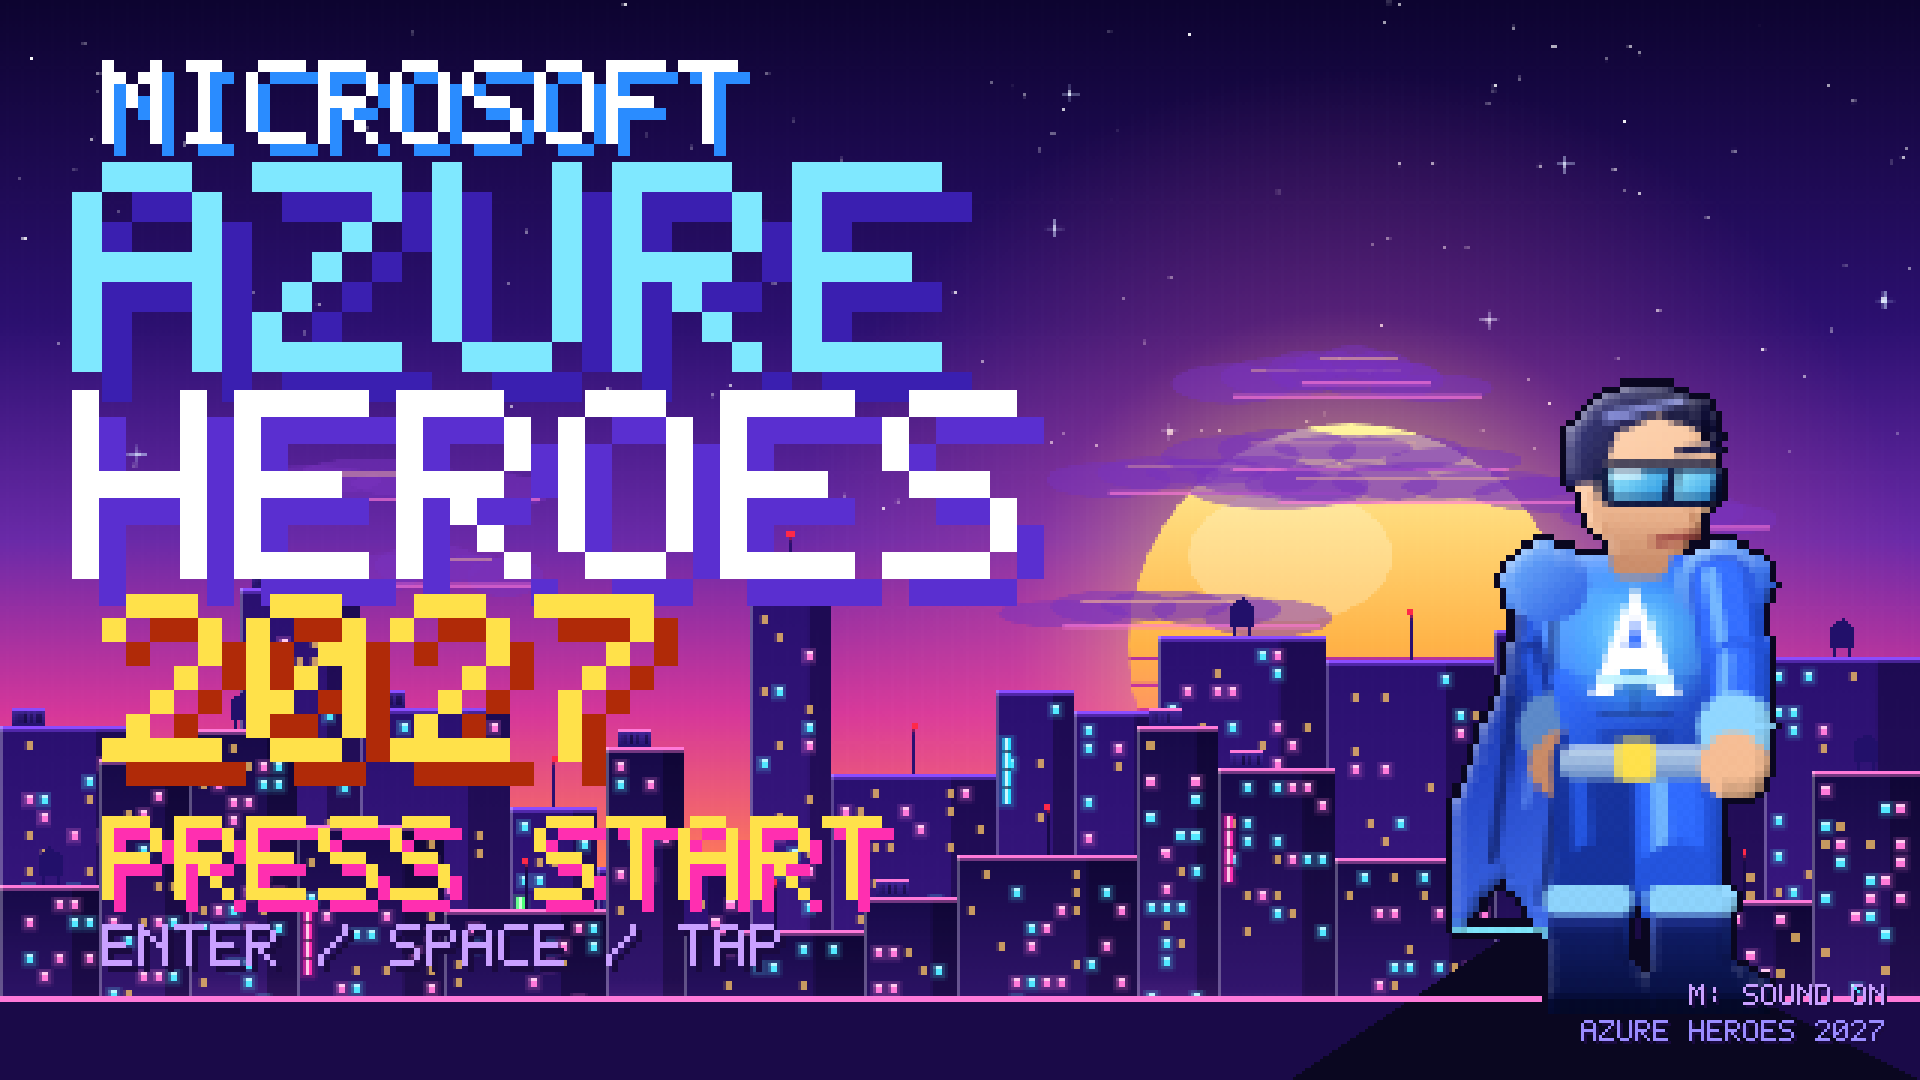
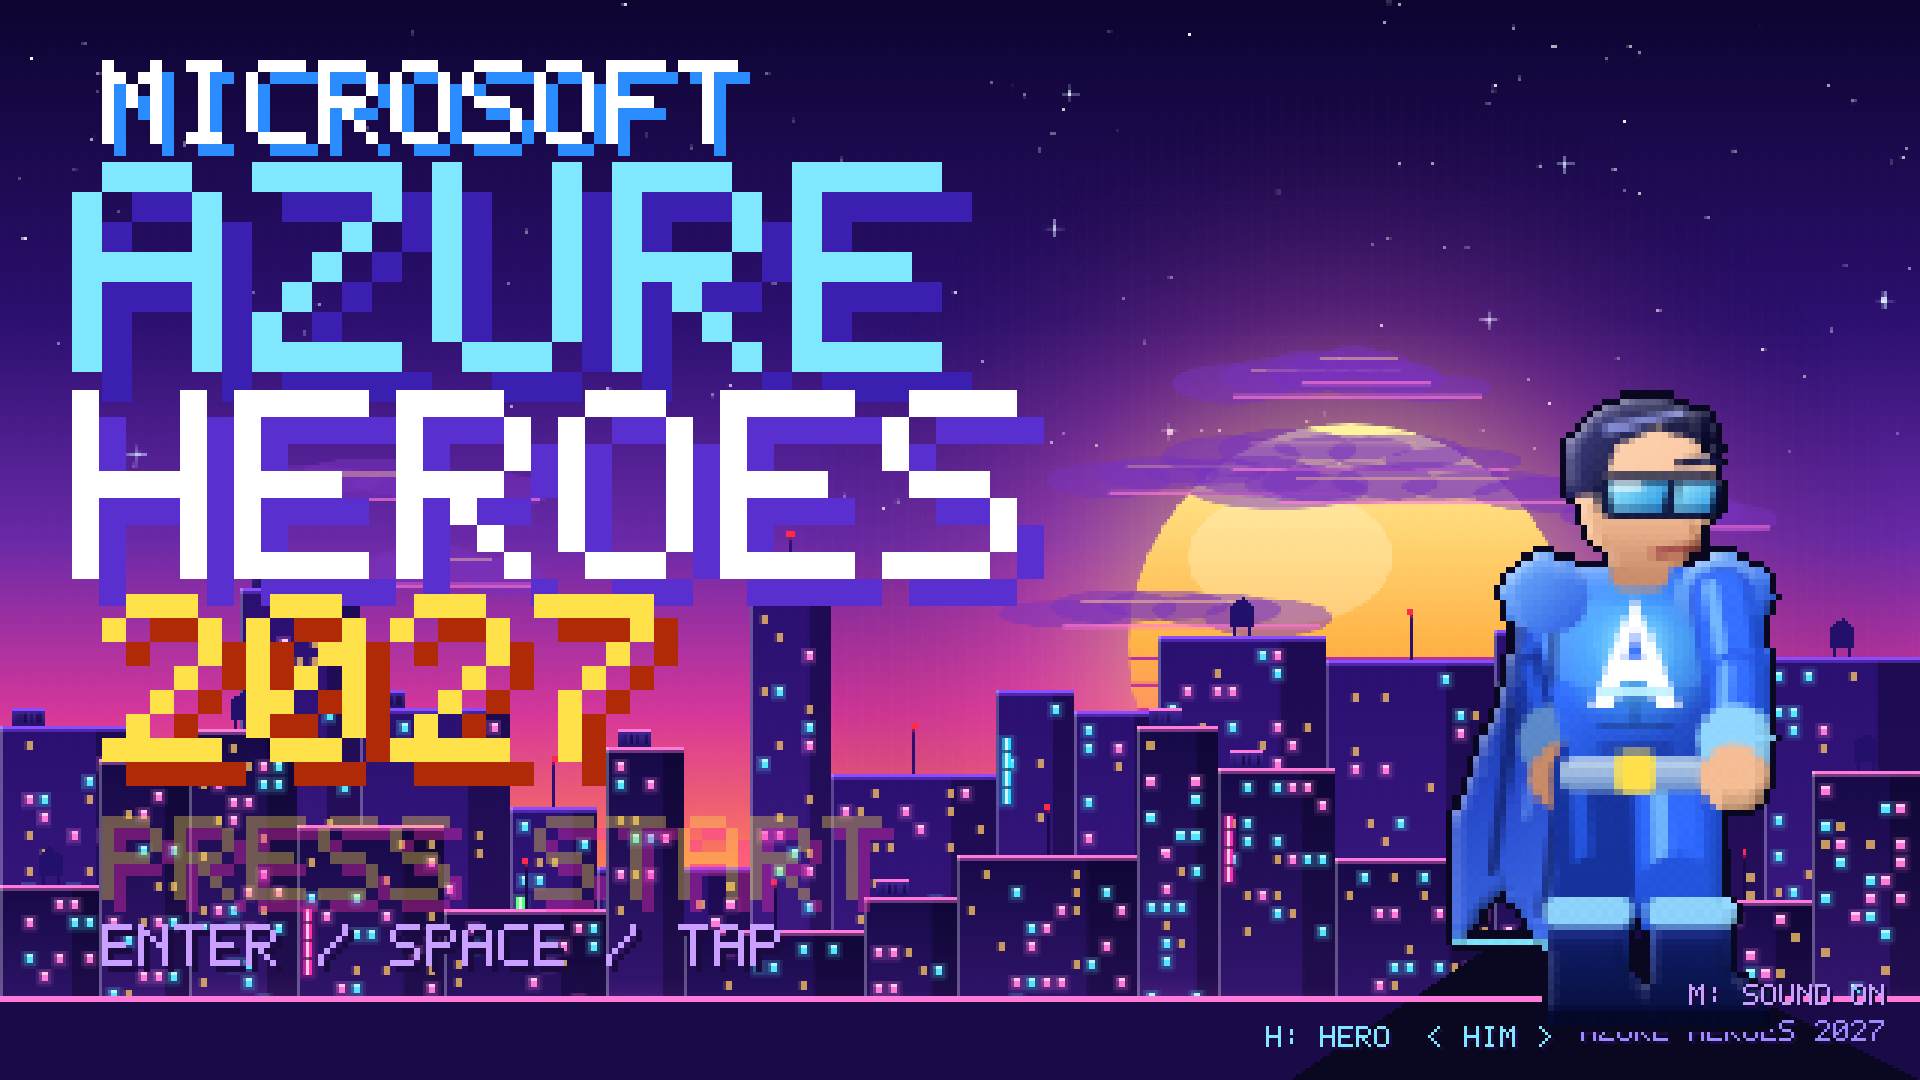
Add power-ups, achievements, hero choice docs, regional boss screenshots

Changed region(s): [[0.6875, 0.3361, 0.9375, 0.9778], [0.0312, 0.7333, 0.25, 0.8556], [0.2812, 0.7333, 0.4688, 0.8556]]

diff --git a/systems/scenes.js b/systems/scenes.js
@@ -90,6 +90,13 @@
   }
 
   /* ---------------------------------------------------------------- LEVEL SELECT */
+  const POWERS = {
+    copilot: { time: 12, msg: 'COPILOT SIDEKICK! AUTO-BLAST' },
+    defender: { time: 8, msg: 'DEFENDER SHIELD! INVINCIBLE' },
+    actions: { time: 9, msg: 'GITHUB ACTIONS! TURBO SPEED' },
+    powerbi: { time: 12, msg: 'POWER BI! COIN MAGNET + 2X SCORE' },
+    teams: { time: 0, msg: 'TEAMS CALL! +30 HEALTH' }
+  };
   const KIND = { run: 'RUN AND JUMP', fly: 'FLIGHT PURSUIT', rack: 'HACK + BOSS FIGHT' };
   const COLS = 3;
 
@@ -236,6 +243,9 @@
       this.soundBtn = AH.UI.soundButton(this, 630, 98);
       this.toastText = T(this, 320, 110, '', { scale: 2, color: '#ffffff', ox: 0.5 }).setScrollFactor(0).setDepth(950).setVisible(false);
       this.toastT = 0;
+      this.powers = {};
+      this.pal = 0;
+      this.clippyAt = 0;
       this.buildIntro();
       AH.Audio.music('main');
       this.cameras.main.fadeIn(350, 10, 7, 32);
@@ -325,6 +335,11 @@
         const img = this.add.image(p.x, p.y, 'prop_' + p.kind).setOrigin(0.5, p.float ? 0.5 : 1).setDepth(p.float ? 8 : 12);
         if (p.float) this.tweens.add({ targets: img, y: p.y + 7, yoyo: true, repeat: -1, duration: 1400 + (p.x % 600), ease: 'Sine.easeInOut' });
       });
+      this.pups = (L.powerups || []).map((u) => {
+        const spr = this.add.image(u.x, u.y, 'pu_' + u.kind).setDepth(36);
+        this.tweens.add({ targets: spr, y: u.y - 6, yoyo: true, repeat: -1, duration: 700, ease: 'Sine.easeInOut' });
+        return { spr, def: u, taken: false };
+      });
       this.flags = (L.checkpoints || []).map((c) => ({
         def: c, hit: false, spr: this.add.image(c.x, c.y, 'flag_off').setOrigin(0.5, 1).setDepth(15)
       }));
@@ -368,10 +383,61 @@
     }
 
     addScore(n, x, y) {
+      if (this.powers && this.powers.powerbi) n *= 2;
       AH.Run.score += n;
       if (x === undefined) return;
       const t = T(this, x, y, '+' + n, { scale: 1, color: '#ffe14a', ox: 0.5 }).setDepth(70);
       this.tweens.add({ targets: t.img, y: y - 26, alpha: 0, duration: 700, onComplete: () => t.destroy() });
+    }
+
+    activatePower(kind, x, y) {
+      const P = POWERS[kind];
+      AH.Audio.play('power');
+      this.burst(x, y, 'spark_c', 14, 160);
+      this.addScore(300, x, y - 14);
+      if (kind === 'teams') this.player.health = Math.min(100, this.player.health + 30);
+      else this.powers[kind] = P.time;
+      this.toast(P.msg);
+      this.achieve('FIRST POWER-UP', 'power');
+    }
+
+    achieve(name, key) {
+      this.ach = this.ach || {};
+      if (this.ach[key]) return;
+      this.ach[key] = true;
+      const t = T(this, 320, 56, 'ACHIEVEMENT UNLOCKED: ' + name, { scale: 1, color: '#7dffa0', ox: 0.5 }).setScrollFactor(0).setDepth(960);
+      this.tweens.add({ targets: t.img, alpha: 0, delay: 2600, duration: 500, onComplete: () => t.destroy() });
+    }
+
+    updatePowers(dt, p) {
+      const pw = this.powers;
+      Object.keys(pw).forEach((k) => { pw[k] -= dt; if (pw[k] <= 0) delete pw[k]; });
+      this.player.speedMul = pw.actions ? 1.35 : 1;
+      this.player.defender = pw.defender ? 1 : 0;
+      this.player.sprite.setAlpha(pw.defender ? 0.55 + 0.3 * Math.sin(this.time.now / 60) : 1);
+      if (pw.copilot) {
+        this.pal -= dt;
+        if (this.pal <= 0) {
+          let tgt = null, bd = 340;
+          this.enemies.forEach((e) => { const d = Math.abs(e.x - p.x); if (!e.dead && d < bd) { bd = d; tgt = e; } });
+          if (tgt) {
+            this.pal = 0.9;
+            this.spawnBlast(p.x + (tgt.x > p.x ? 26 : -26), p.y - 30, tgt.x > p.x ? 1 : -1);
+            AH.Audio.play('blast');
+          }
+        }
+      }
+      if (pw.powerbi) {
+        this.coins.forEach((c) => {
+          if (c.taken) return;
+          const dx = p.x - c.spr.x, dy = p.y - c.spr.y, d = Math.hypot(dx, dy);
+          if (d < 170 && d > 1) { c.spr.x += dx / d * 260 * dt; c.spr.y += dy / d * 260 * dt; }
+        });
+      }
+      if (this.player.health < 35 && this.time.now > this.clippyAt && this.state === 'play') {
+        this.clippyAt = this.time.now + 20000;
+        this.toast('CLIPPY: LOW HEALTH! GRAB A TEAMS ORB');
+      }
     }
 
     toast(msg) {
@@ -381,6 +447,7 @@
 
     onEnemyKilled(e) {
       this.stats.kills++;
+      this.achieve('FIRST KO', 'ko');
       this.addScore(200, e.x, e.y - 20);
       AH.Audio.play('kill');
       this.burst(e.x, e.y - (e.type === 'drone' ? 0 : 14), 'spark_y', 12, 160);
@@ -401,7 +468,7 @@
       }
       return {
         levelId: this.levelId, levelName: this.L.name, health: p.health, score: AH.Run.score, mfa: p.mfa, credits: p.credits,
-        lives: AH.Run.lives, time: this.timeLeft, boost: p.boost, blastCost: AH.BLAST_COST, hack: hack,
+        lives: AH.Run.lives, time: this.timeLeft, powers: this.powers, boost: p.boost, blastCost: AH.BLAST_COST, hack: hack,
         boss: this.boss && !this.boss.dead ? this.boss.snapshot() : null, mode: this.mode
       };
     }
@@ -523,6 +590,7 @@
       const next = LEVEL_IDS[idx + 1];
       const lines = [
         'SCORE ' + AH.UI.pad(AH.Run.score, 6) + '  TIME BONUS ' + bonus,
+        'DEPLOYED TO ' + this.L.regionName.toUpperCase(),
         'CREDITS ' + this.player.credits + '  MFA ' + this.stats.mfa + '  KO ' + this.stats.kills
       ];
       const buttons = [];
@@ -561,6 +629,7 @@
     onBossDefeated() {
       const B = this.L.boss;
       this.addScore(5000, this.boss.x, this.boss.y - 90);
+      this.achieve('GIANT SLAYER', 'boss');
       this.boss.destroy();
       this.boss = null;
       this.bossDone = true;
@@ -649,6 +718,15 @@
           AH.Audio.play('coin');
         }
       });
+      this.pups.forEach((u) => {
+        if (u.taken) return;
+        if (ov(pr, { x: u.spr.x - 12, y: u.spr.y - 12, w: 24, h: 24 })) {
+          u.taken = true;
+          u.spr.destroy();
+          this.activatePower(u.def.kind, u.def.x, u.def.y);
+        }
+      });
+      this.updatePowers(dt, p);
       this.tokens.forEach((t) => {
         if (t.taken) return;
         if (ov(pr, { x: t.spr.x - 11, y: t.spr.y - 12, w: 22, h: 24 })) {
@@ -663,6 +741,7 @@
             AH.Run.lives += 1;
             AH.Audio.play('life');
             this.toast('5 MFA TOKENS = +1 LIFE!');
+            this.achieve('MFA ENABLED', 'mfa');
           }
         }
       });

diff --git a/art/sprites.js b/art/sprites.js
@@ -1737,6 +1737,24 @@
   };
   Object.keys(PROPS).forEach(function (k) { reg2('prop_' + k, PROPS[k][0], PROPS[k][1], PROPS[k][2], { shade: 0.4 }); });
 
+  /* ------------------------------------------------------------------ POWER-UP ICONS (20x20 orbs) */
+  const PU = {
+    copilot: ['#ffffff', '#7fe8ff', function (g) { rrect(g, 5, 7, 10, 7, 3, '#1a3fb0'); ell(g, 8, 10.4, 1.3, 1.6, '#9ff0ff'); ell(g, 12, 10.4, 1.3, 1.6, '#9ff0ff'); line(g, 10, 7, 10, 4.5, 1, '#1a3fb0'); ell(g, 10, 4, 1.2, 1.2, '#ff7ad9'); }],
+    defender: ['#9ff0ff', '#1a8fe0', function (g) { poly(g, [[10, 3.5], [15.5, 5.5], [15, 11], [10, 16], [5, 11], [4.5, 5.5]], '#ffffff'); poly(g, [[10, 6], [13, 7.2], [12.6, 10.4], [10, 13], [7.4, 10.4], [7, 7.2]], '#1a8fe0'); }],
+    actions: ['#7dffa0', '#1c8f44', function (g) { poly(g, [[6.5, 4.5], [15.5, 10], [6.5, 15.5]], '#ffffff'); line(g, 4.5, 10, 7, 10, 1.2, '#d6ffe0'); }],
+    powerbi: ['#ffe14a', '#c27a00', function (g) { rrect(g, 4.5, 11, 3, 5, 0.6, '#fff3b0'); rrect(g, 8.5, 7, 3, 9, 0.6, '#ffffff'); rrect(g, 12.5, 4, 3, 12, 0.6, '#fff3b0'); }],
+    teams: ['#c9a0ff', '#5a2fd0', function (g) { rrect(g, 4, 5, 12, 3.4, 1, '#ffffff'); rrect(g, 8.3, 5, 3.4, 11, 1, '#ffffff'); }]
+  };
+  Object.keys(PU).forEach((k) => {
+    const d = PU[k];
+    reg2('pu_' + k, 20, 20, function (g) {
+      ell(g, 10, 10, 9, 9, lg(g, 3, 2, 17, 18, [[0, d[0]], [1, d[1]]]));
+      ell(g, 10, 10, 7.6, 7.6, 'rgba(10,10,60,0.35)');
+      d[2](g);
+      ell(g, 6.5, 5.5, 2.2, 1.3, 'rgba(255,255,255,0.7)');
+    }, { shade: 0, glow: d[0] });
+  });
+
   /* ------------------------------------------------------------------ TITLE ART */
   reg('title_burst', 8, 8, function (g) { R(g, '#ffffff', 0, 0, 8, 8); }, true);
 

diff --git a/ui/hud.js b/ui/hud.js
@@ -44,6 +44,7 @@
       this.time = mk(538, 25, '00:00', '#7fe8ff');
 
       mk(12, 328, 'POWER:', '#ffffff', { scale: 1 });
+      this.puText = mk(240, 327, '', '#ffe14a', { scale: 1 });
       this.power = mk(60, 327, 'AZURE BLAST READY', '#7fe8ff', { scale: 1 });
       const full = 'LEVEL ' + levelId + ' - ' + levelName.toUpperCase();
       const sc = full.length * 12 > 380 ? 1 : 2;
@@ -77,6 +78,8 @@
       const ready = s.boost >= s.blastCost;
       b.fillStyle(ready ? 0x27e0ff : 0x9a4cff, 1).fillRect(60, 337, Math.round(150 * s.boost / 100), 8);
       b.fillStyle(0xffffff, 0.4).fillRect(60, 337, Math.round(150 * s.boost / 100), 2);
+      const pw = s.powers || {};
+      this.puText.setText(Object.keys(pw).map((k) => k.toUpperCase() + ' ' + Math.ceil(pw[k]) + 'S').join('  '));
       this.power.setText(ready ? 'AZURE BLAST READY' : 'BLAST CHARGING...').setColor(ready ? '#7fe8ff' : '#c9a0ff');
 
       const showHack = s.hack !== null && s.hack !== undefined;

diff --git a/README.md b/README.md
@@ -15,16 +15,30 @@ python3 -m http.server 8080
 
 ## Levels
 
-| Level | Azure region | World | Mode |
-|-------|--------------|-------|------|
-| 1 | `westeurope` | Amsterdam Canal Run: windmill, canal houses, Westerkerk | Run |
-| 2 | `uksouth` | London Thames Run: Big Ben, Tower Bridge, London Eye, the Shard | Run |
-| 3 | `japaneast` | Tokyo Skyway Pursuit: Mount Fuji, Tokyo Tower, torii, pagoda | Flight |
-| 4 | `australiaeast` | Sydney Harbour Run: Opera House, Harbour Bridge | Run |
-| 5 | `brazilsouth` | Rio Sugarloaf Pursuit: Christ the Redeemer, Sugarloaf | Flight |
-| 6 | `eastus` | Virginia Data Center: Capitol, Washington Monument, hack terminals, Sec Gates and the High-Risk CyberGuardian boss | Data center |
+| Level | Azure region | World | Local enemies | Boss | Mode |
+|-------|--------------|-------|---------------|------|------|
+| 1 | `westeurope` | Amsterdam Canal Run: windmill, canal houses, Westerkerk | clog bots, windmill drones, cheese crawlers | Windmill Titan | Run |
+| 2 | `uksouth` | London Thames Run: Big Ben, Tower Bridge, London Eye, the Shard | bearskin guards, ravens, black-cab crawlers | Bearskin Sentinel | Run |
+| 3 | `japaneast` | Tokyo Skyway Pursuit: Mount Fuji, Tokyo Tower, torii, pagoda | sushi drones | Sumo Shogun (hovering) | Flight |
+| 4 | `australiaeast` | Sydney Harbour Run: Opera House, Harbour Bridge | emus, cockatoos, crocodiles | Boxing Roo | Run |
+| 5 | `brazilsouth` | Rio Sugarloaf Pursuit: Christ the Redeemer, Sugarloaf | macaw drones | Carnaval Rei (hovering) | Flight |
+| 6 | `eastus` | Virginia Data Center: Capitol, Washington Monument, hack terminals, Sec Gates | Minutemen, bald eagles, crabs | High-Risk CyberGuardian | Data center |
 
-Levels are generated at random each time a level starts, so platforms, lasers, enemies, coins and MFA tokens land in new places on every run. Each level is 9,000 to 13,000 px long.
+Levels are generated at random each time a level starts, so platforms, lasers, enemies, coins, power-ups and MFA tokens land in new places on every run. Each level is 7,500 to 13,500 px long. Run levels mix gaps, steps up, drops and floating upper platforms at different heights, and every region has its own coins (EUR, GBP, JPY, AUD, BRL, USD) and scenery props.
+
+Every level ends in an arena with that region's boss. Ground bosses must be blocked with the MFA Shield until they are stunned. Hovering bosses (Tokyo, Rio) cannot be blocked: dodge their volleys, then blast them while they are exposed. The exit opens when the boss is down.
+
+### Power-ups
+
+| Orb | Effect |
+|-----|--------|
+| Copilot | A sidekick auto-fires Azure Blasts at nearby enemies for 12 s |
+| Defender | Invincible for 8 s |
+| GitHub Actions | Turbo speed for 9 s |
+| Power BI | Coin magnet and double score for 12 s |
+| Teams | Instant +30 health |
+
+Clippy warns you when health is low, and Xbox-style achievements pop up for firsts. Pick a hero on the title screen with **H** or by tapping the hero (male or female); the choice is saved.
 
 Collect 5 MFA tokens for an extra life. Every enemy takes 2 hits and drops an Azure Credit. Best score and unlocked levels are stored in `localStorage`.
 
@@ -64,12 +78,19 @@ The site is static, so no build configuration is needed.
 
 ## Screenshots
 
+![Female hero on the title screen](docs/screenshots/title-female.png)
+![Level select](docs/screenshots/select.png)
 ![World 1](docs/screenshots/world1.png)
 ![World 2](docs/screenshots/world2.png)
 ![World 3](docs/screenshots/world3.png)
 ![World 4](docs/screenshots/world4.png)
 ![World 5](docs/screenshots/world5.png)
 ![World 6](docs/screenshots/world6.png)
-![CyberGuardian boss](docs/screenshots/boss.png)
+![Windmill Titan](docs/screenshots/boss1.png)
+![Bearskin Sentinel](docs/screenshots/boss2.png)
+![Sumo Shogun](docs/screenshots/boss3.png)
+![Boxing Roo](docs/screenshots/boss4.png)
+![Carnaval Rei](docs/screenshots/boss5.png)
+![CyberGuardian](docs/screenshots/boss6.png)
 
 Read the write-up in [docs/article.md](docs/article.md).

diff --git a/docs/article.md b/docs/article.md
@@ -32,11 +32,18 @@ Levels are plain data objects (`platforms`, `lasers`, `coins`, `mfaTokens`, `ene
 
 ![Data Center Infiltration](screenshots/world6.png)
 
-## The boss
+## Local bosses, local enemies, power-ups
 
-The High-Risk CyberGuardian cannot be hit head-on. The player must hold the **MFA Shield** to block its bolts and charges. After enough blocks the boss is stunned, and only then does an Azure Blast hurt it. It has three attack phases and a health bar with a blinking **RISK LEVEL: HIGH** label.
+Every region has its own boss in the local style: a Windmill Titan in Amsterdam, a Bearskin Sentinel in London, a hovering Sumo Shogun in Tokyo, a Boxing Roo in Sydney, Carnaval Rei in Rio and the original High-Risk CyberGuardian in Virginia. Enemies, coins and scenery props are re-skinned per region (sushi drones, emus and crocodiles, clog bots and so on).
 
-![The CyberGuardian is stunned](screenshots/boss.png)
+Ground bosses cannot be hit head-on. The player holds the **MFA Shield** to block bolts and charges. After enough blocks the boss is stunned, and only then does an Azure Blast hurt it. Hovering bosses cannot be blocked, so the player dodges and blasts them in an exposed window. All have three attack phases and a health bar with a blinking **RISK LEVEL: HIGH** label.
+
+![The Boxing Roo](screenshots/boss4.png)
+![The Sumo Shogun](screenshots/boss3.png)
+
+Floating orbs add Copilot (an auto-firing sidekick), Defender, GitHub Actions, Power BI and Teams power-ups, plus Clippy tips and achievement toasts. The hero can be male or female.
+
+![Female hero](screenshots/title-female.png)
 
 ## Sound without files
 

diff --git a/tests/playtest.md b/tests/playtest.md
@@ -33,3 +33,13 @@ Levels 2, 3 and 4 are PASS in automated runs. The game is not signed off on mobi
 
 ## Azure region worlds
 Bot runs on all 6 generated worlds: levels 5 and 6 complete, levels 1 completes with lives lost; deaths in 2-4 come from bot timing at gaps. Manual playtest still recommended.
+
+## Regional bosses, power-ups and hero choice
+
+Headless Chrome (1280x720 and 1920x1080), all 6 levels, no console errors besides two 404 responses (probably the favicon):
+
+- PASS: each level's boss arena starts when the trigger is crossed, the boss name shows in the HUD, and the region boss art renders.
+- PASS: forcing the boss through stun and 10 blasts opens the exit on all 6 levels, and entering it shows the level complete panel.
+- PASS: power-up orbs are picked up and the effect timers appear in the HUD (Copilot, Power BI seen live; Defender, Actions and Teams only code-reviewed).
+- PASS: pressing H on the title swaps to the female hero, which renders in levels.
+- NOT TESTED: a bot or human playing a boss fight unassisted, the Copilot sidekick killing enemies, Defender and Actions effects in play, and touch devices. The bosses were forced into the stunned state in these runs.

diff --git a/.github/skills/game-contract/SKILL.md b/.github/skills/game-contract/SKILL.md
@@ -47,3 +47,10 @@ F Azure Blast, Shift Flight Boost, E / S / Down = MFA Shield, P pause, R restart
 
 ## Level generation addendum
 - `AH.Levels.make(id)` returns a freshly randomised level in the Level format, with extra fields `region`, `regionName`, `city`, `landmarks`, `hint`, `tint`, `mode`.
+
+## Addendum: optional level fields
+
+- `powerups: [{ kind, x, y }]` with kind in `copilot`, `defender`, `actions`, `powerbi`, `teams`. Icons are `pu_<kind>` in art/sprites.js.
+- `props: [{ kind, x, y, float }]` decorative scenery (`prop_<kind>` textures).
+- `boss: { kind, name, proj, air, trigger, left, right, floor }` the regional boss arena. Use the region-world-generator skill.
+- Player API additions: `player.speedMul`, `player.defender` (seconds of invincibility), `AH.Save.data.hero` (`'m'` or `'f'`, textures `hero_*` or `hero_f_*`).
